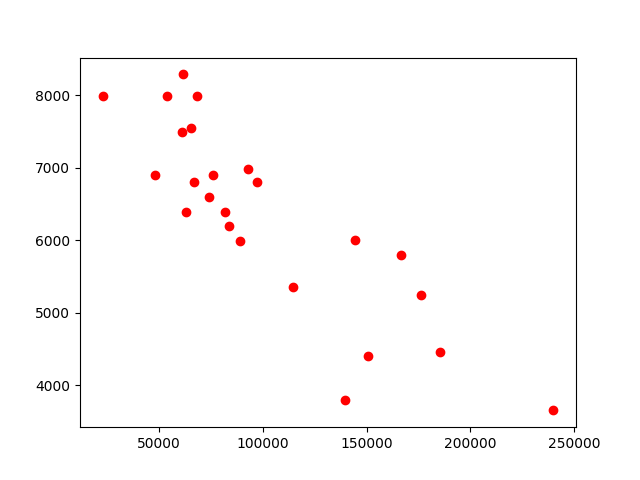
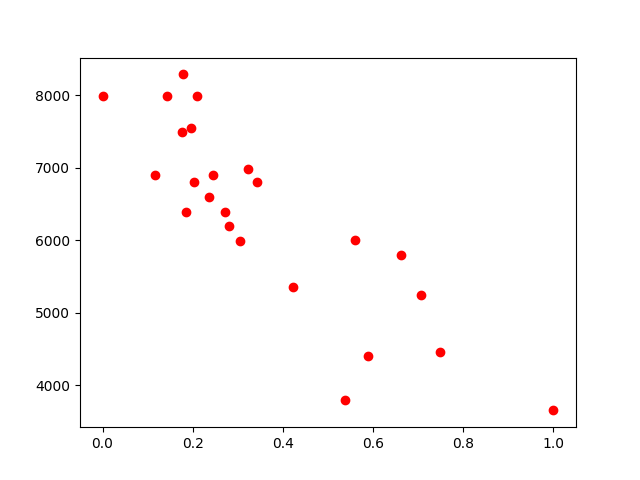
first part is alive

diff --git a/train_model.py b/train_model.py
@@ -7,6 +7,7 @@ import matplotlib.pyplot as plt
 import pandas
 import os
 
+from math import *
 from train_model import *
 
 def save(name='', fmt='png'):
@@ -24,43 +25,63 @@ def print_plot(predict_data, name):
     plt.show()
 
 def functional(wt0, wt1, predict_data):
-    #датасет может быть пустой
-    sum = 0
-    errors = 0
-    length = len(predict_data)
-    for i in range(length):
-        result = wt1 * predict_data.iloc[i][0]
-        result += wt0
-        result -= predict_data.iloc[i][1]
-        result = result ** 2
-        sum += result
-    errors = int(sum / ( 2 * length))
-    return errors
+    #датасет может быть пусто
+    length = len(predict_data) - 1
+    errors = sum([(((wt0 + wt1 * predict_data.loc[i][0]) - predict_data.loc[i][1]) ** 2) for i in range(len(predict_data))]) / length
+#    for i in range(length):
+#        result = wt1 * predict_data.iloc[i][0]
+#        result += wt0
+#        result -= predict_data.iloc[i][1]
+#        result = result ** 2
+#        sum += result
+#    errors = sum / length
+    return sqrt(errors)
 
 def change_wt(wt0, wt1, iter, data):
+    wt0_tmp = wt0
+    wt1_tmp = wt1
     length = len(data)
     sum0 = 0
     sum1 = 0
-    iter = float(1 / (iter * iter))
+    l_rate = 0.1
+    #iter = float(1 / (iter * iter))
     for i in range(length):
-        sum0 += wt1 * data.iloc[i][0] + wt0 - data.iloc[i][1]
-        sum1 += (wt1 * data.iloc[i][0] + wt0 - data.iloc[i][1]) * data.iloc[i][0]
-    sum0 /= length
-    sum1 /= length
-    wt0 = float(wt0 - iter * sum0)
-    wt1 = float(wt1 - iter * sum1)
+        sum0 += (wt1 * data.loc[i][0] + wt0) - data.loc[i][1]
+        sum1 += ((wt1 * data.loc[i][0] + wt0) - data.loc[i][1]) * data.loc[i][0]
+    #sum0 /= length
+    #sum1 /= length
+    wt0 = wt0 - ((l_rate * sum0) / len(data))
+    wt1 = wt1 - ((l_rate * sum1) / len(data))
     wt = numpy.array([wt0, wt1])
-    return wt
+    return wt, wt0_tmp, wt1_tmp
+
+def normalize_dataset(data):
+	x_max = max(data['km'])
+	x_min = min(data['km'])
+	data['km'] = data['km'].astype('float')
+	for i in range(len(data['km'])):
+		data['km'][i] = (data['km'][i] - x_min) / (x_max - x_min)
+	print(data)
+	return data
 
 def train_model(predict_data):
-    predict_data = predict_data / 3650
-    wt = numpy.array([0, 0])
-    wt_plot = pandas.DataFrame()
-    wt_plot = wt_plot.append({'errors': functional(0, 0, predict_data), 'iter': 0}, ignore_index=True)
-    for i in range(1, 30000):
-        wt = change_wt(wt[0], wt[1], i, predict_data)
-        if i % 1000 == 0:
-            print(i, functional(wt[0], wt[1], predict_data), wt[0] * 3650, wt[1] * 3650)
+	predict_data = normalize_dataset(predict_data)
+	print(predict_data)
+	wt0_tmp, wt1_tmp = 0, 0
+	wt = numpy.array([0, 0])
+	wt_plot = pandas.DataFrame()
+	wt_plot = wt_plot.append({'errors': functional(0, 0, predict_data), 'iter': 0}, ignore_index=True)
+	i = 0
+	errors = 683
+	while errors > 682:
+		i += 1
+		wt, wt0_tmp, wt1_tmp = change_wt(wt[0], wt[1], i, predict_data)
+		if wt0_tmp == wt[0] and wt1_tmp == wt[1]:
+			break
+		if i % 100 == 0:
+			print("I'm alive. Wait...")
+		errors = functional(wt[0], wt[1], predict_data)
+		print(i, errors, wt[0], wt[1])
         #wt_plot = wt_plot.append({'errors': functional(wt[0], wt[1], predict_data), 'iter': i}, ignore_index=True)
     #print_plot(wt_plot, 'wt_plot')
-    return wt
+	return wt
